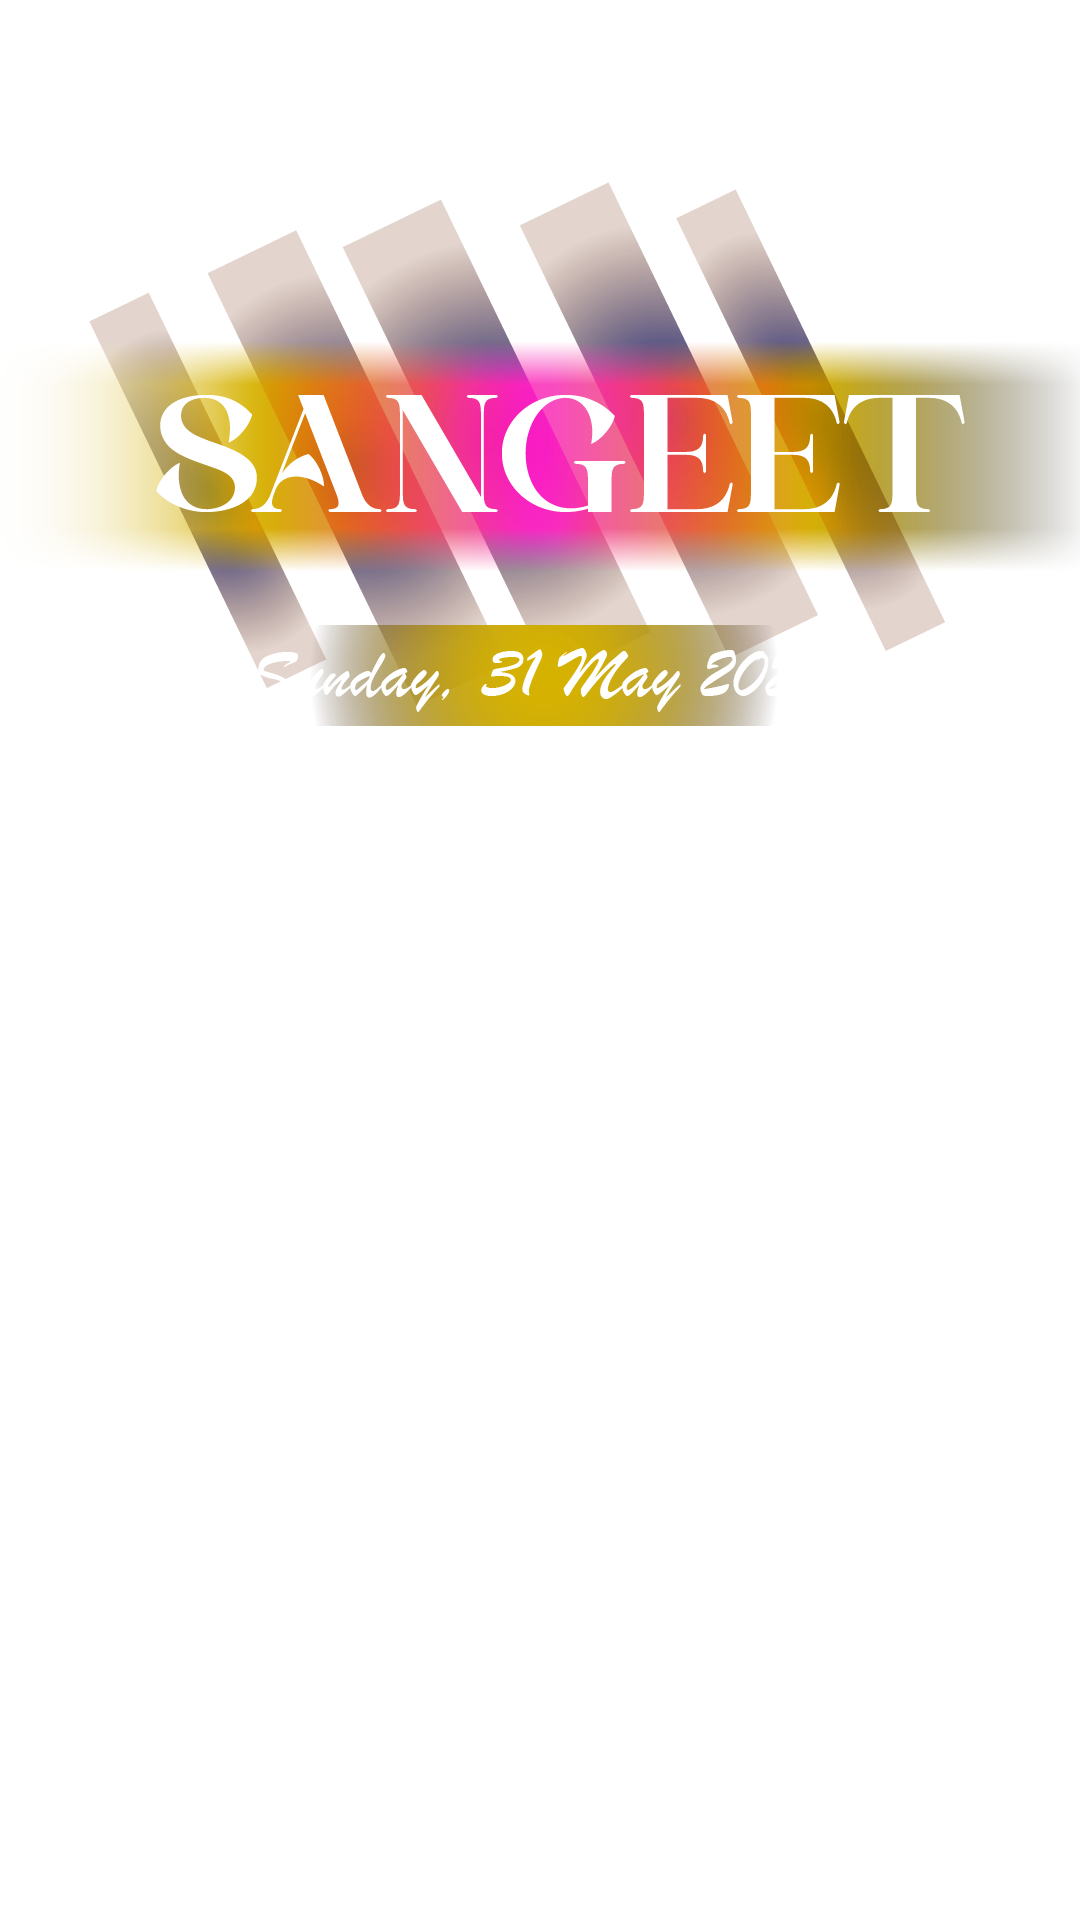
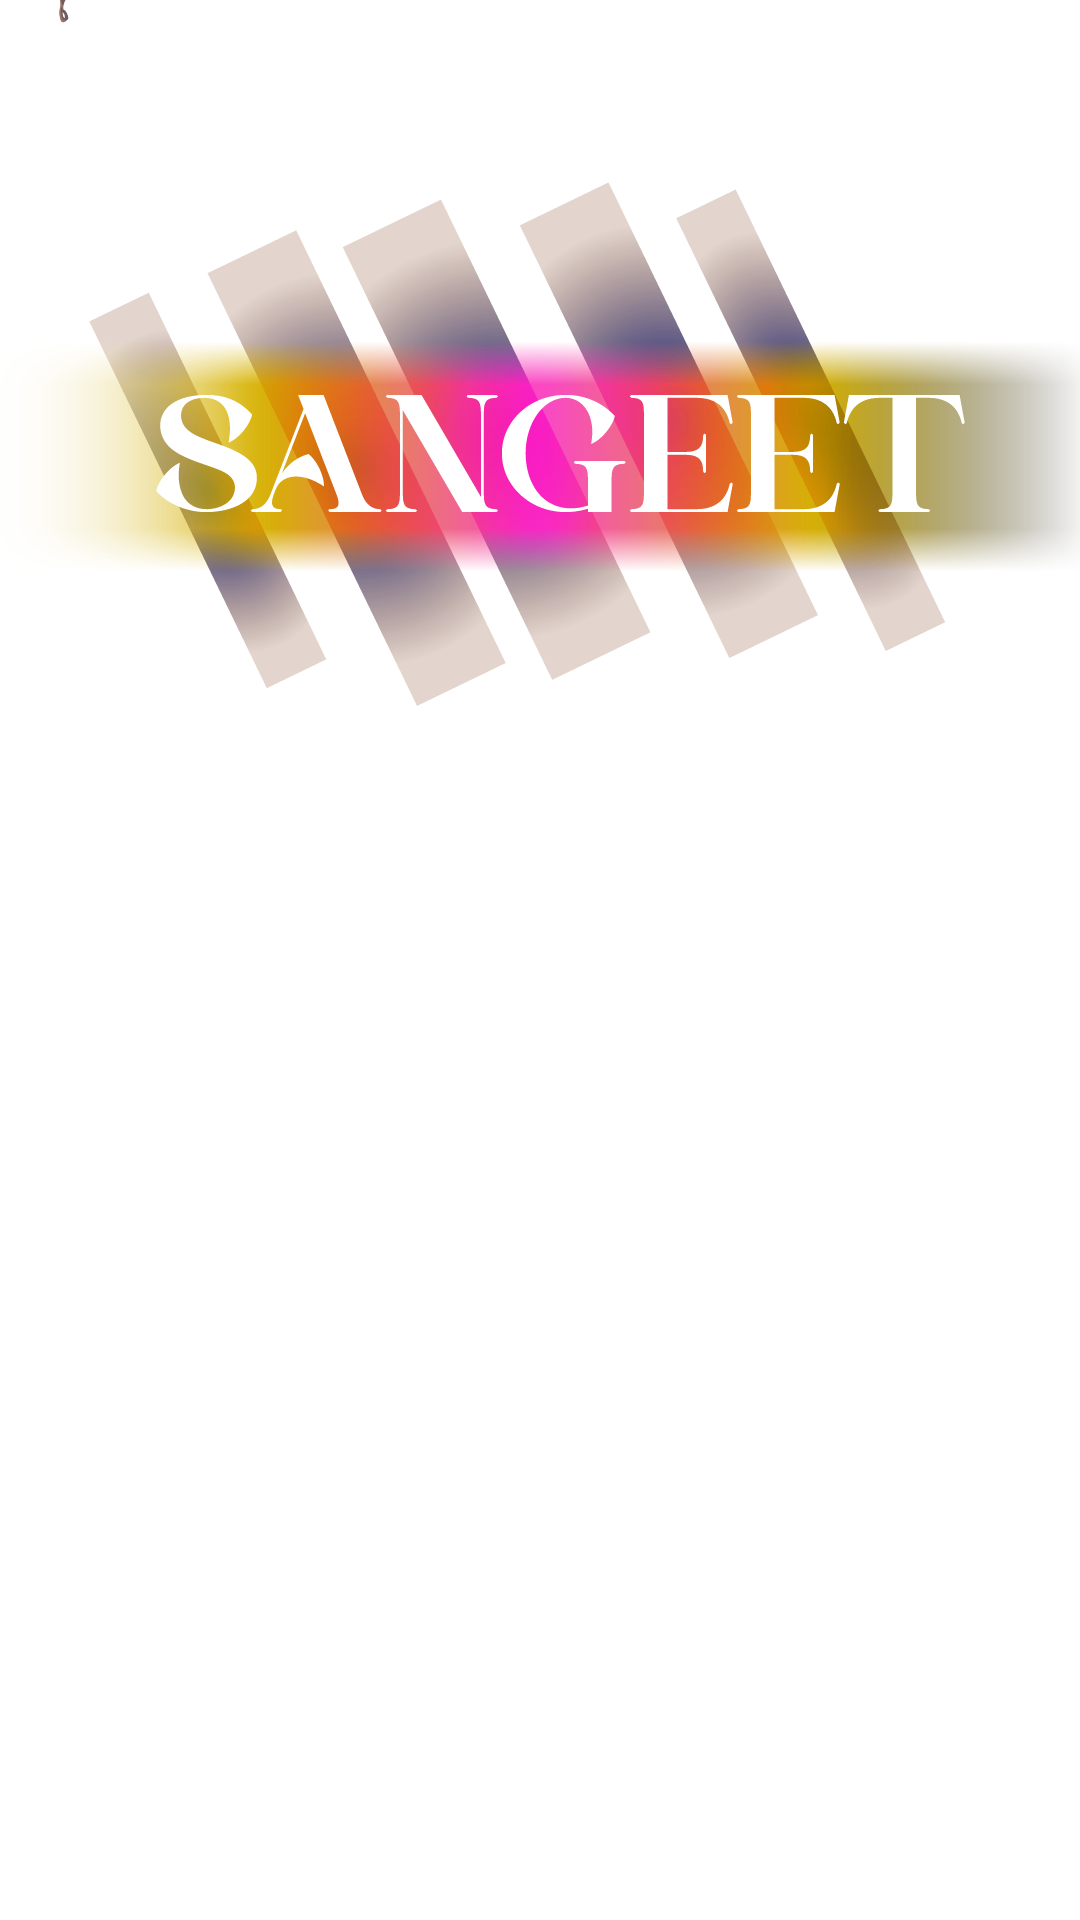
your new changes

Changed region(s): [[0.2444, 0.3125, 0.7333, 0.375]]

diff --git a/app/invite/sangeet/page.tsx b/app/invite/sangeet/page.tsx
@@ -37,18 +37,20 @@ export default function SangeetInvitation() {
         transition={{ duration: 1.5 }}
       />
 
+      {/* Sangeet Light Layer */}
+      <motion.img
+        src="/sangeet/sangeet-light.png"
+        className="absolute inset-0 w-full h-full object-cover z-[1] pointer-events-none"
+        initial={{ opacity: 0 }}
+        animate={{ opacity: 1 }}
+        transition={{ delay: 0.8, duration: 2 }}
+      />
+
       {/* Main Content Container - Enforced 9:16 Aspect Ratio */}
       <div className="relative w-full h-full max-w-[calc(100vh*9/16)] mx-auto overflow-hidden z-10">
 
         
-        {/* 2. Top Flowers/Decor (Layer 1) */}
-        <motion.img
-          src="/sangeet/sangeet-flower.png"
-          className="absolute top-0 left-0 w-full object-contain object-top pointer-events-none z-10"
-          initial={{ y: -200, opacity: 0 }}
-          animate={{ y: 0, opacity: 1 }}
-          transition={{ delay: 0.5, duration: 1.5, ease: "easeOut" }}
-        />
+
 
      
 
@@ -62,9 +64,37 @@ export default function SangeetInvitation() {
           transition={{ delay: 1.2, duration: 1.8, ease: [0.16, 1, 0.3, 1] }}
         />
 
+        {/* Sangeet Text 3 (Layer 2.1) */}
+        <motion.div
+          className="absolute inset-0 w-full h-full z-[21] pointer-events-none"
+          initial={{ opacity: 0 }}
+          animate={{ opacity: 1 }}
+          transition={{ delay: 2.2, duration: 1.5 }}
+        >
+          <img 
+            src="/sangeet/sangeet-text-3.png" 
+            alt="Sangeet Details 3" 
+            className="w-full h-full object-contain"
+          />
+        </motion.div>
+
+        {/* Sangeet Text 4 (Layer 2.2) */}
+        <motion.div
+          className="absolute inset-0 w-full h-full z-[22] pointer-events-none"
+          initial={{ opacity: 0 }}
+          animate={{ opacity: 1 }}
+          transition={{ delay: 2.5, duration: 1.5 }}
+        >
+          <img 
+            src="/sangeet/sangeet-text-4.png" 
+            alt="Sangeet Details 4" 
+            className="w-full h-full object-contain"
+          />
+        </motion.div>
+
         {/* 4. Sangeet Text 1 (Layer 3) */}
         <motion.div
-          className="absolute top-[-5%] left-1/2 -translate-x-1/2 w-full z-30"
+          className="absolute top-[0%] left-1/2 -translate-x-1/2 w-full z-30"
           initial={{ opacity: 0, scale: 0.8, filter: 'blur(10px)' }}
           animate={{ opacity: 1, scale: 1, filter: 'blur(0px)' }}
           transition={{ delay: 2, duration: 1.5, ease: "easeOut" }}
